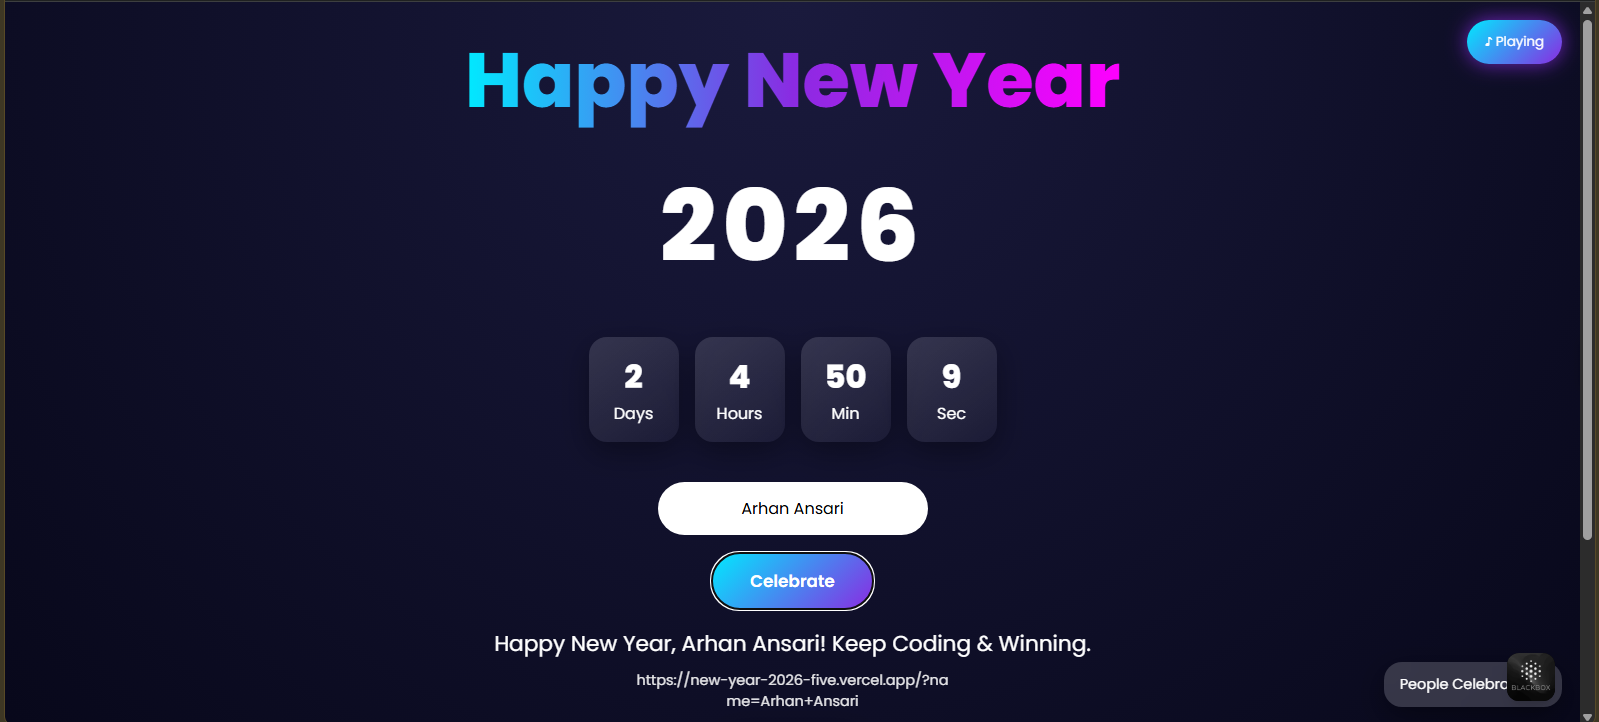
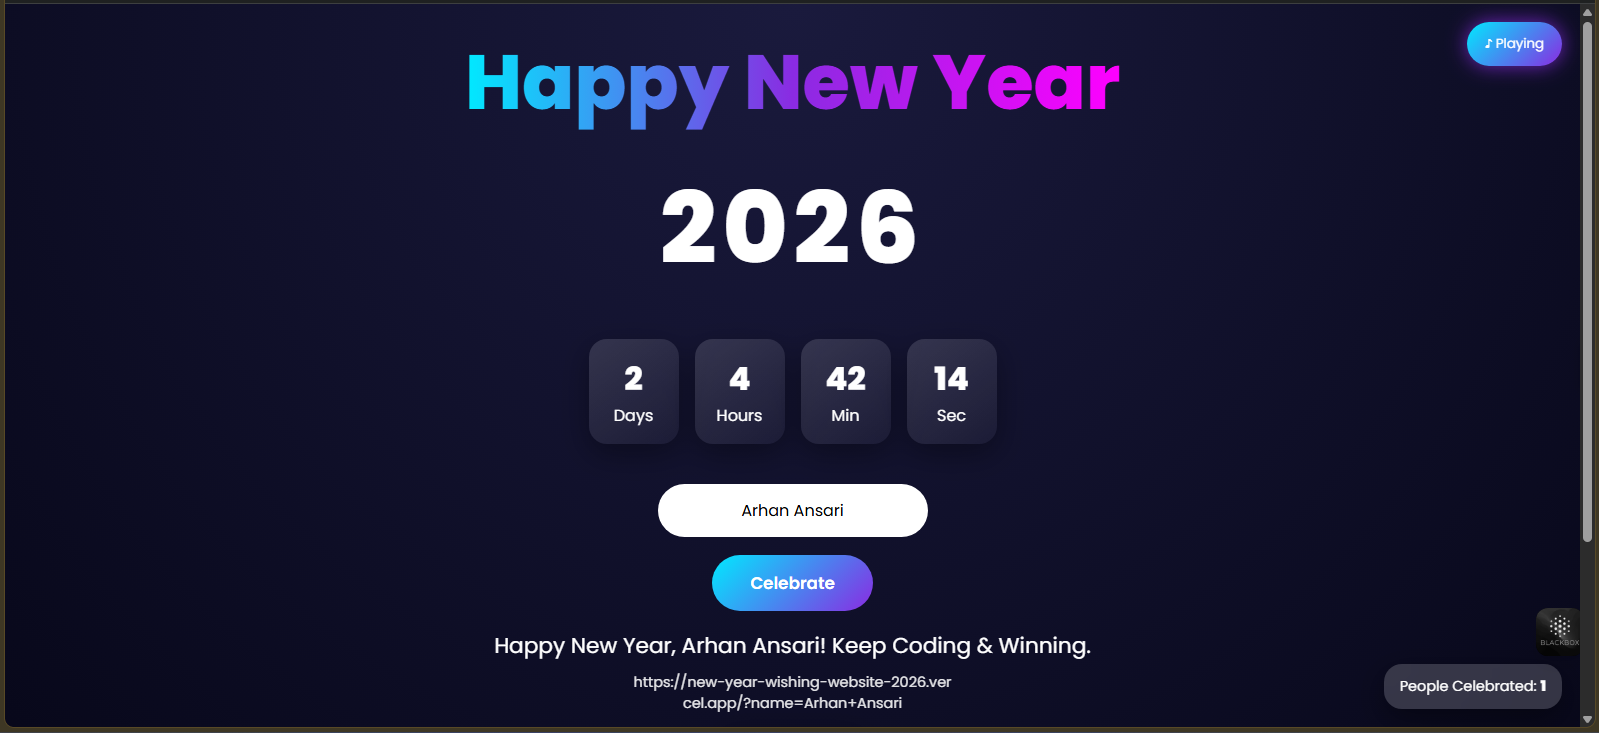
fix: update project URLs for New Year Wishing 2026 for accuracy

diff --git a/src/components/Projects.jsx b/src/components/Projects.jsx
@@ -644,8 +644,8 @@ export const projects = [
 	},
 	{
 		title: "New Year Wishing 2026",
-		url: "https://new-year-2026-five.vercel.app/",
-		github: "https://github.com/ArhanAnsari/New-Year-2026",
+		url: "https://new-year-wishing-website-2026.vercel.app/",
+		github: "https://github.com/ArhanAnsari/New-Year-Wishing-Website-2026",
 		image: "projects/New-Year-2026.png",
 		description: "A New Year 2026 Wishing Website made with HTML, CSS and JavaScript.",
 		category: "web",
